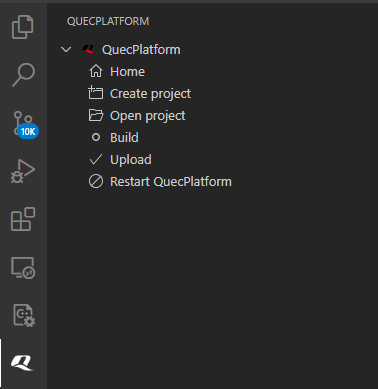
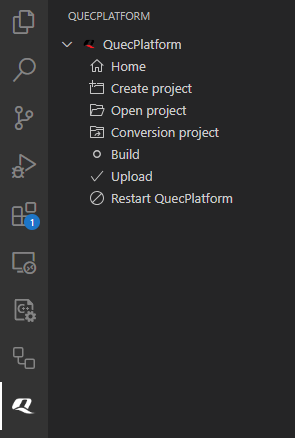
Modify README

diff --git a/vscode-extension/md/README.md b/vscode-extension/md/README.md
@@ -31,6 +31,8 @@ This is the OpenCPU development platform developed by Quectel.🚀
         
     - `Open project`: Open an existing project.
 
+    - `Conversion project`: Convert project not supported by the tool to the project supported by the tool. Due to the need for one-stop compilation, the tool only supports specific projects, but you can use this option to convert unsupported projects to supported projects, but only for the boards supported by the tool.
+
     - `Build`: If you have already created or opened a project, you can click this button to compile, if there is no open project, please follow the steps above to create or open one.
 
     - `Upload`: To burn firmware, please select the correct serial port before burning.
@@ -66,6 +68,8 @@ This is the OpenCPU development platform developed by Quectel.🚀
 ### 0.1.2
 -------------------------
 - Add a quick start document entry to the home page.
+- Added the Project conversion function, which can convert the project not supported by the tool to the project supported by the tool;
+- Fix known issues.
 
 
 ### 0.1.1

diff --git a/vscode-extension/md/README_CN.md b/vscode-extension/md/README_CN.md
@@ -31,6 +31,8 @@ Quectel OpenCPU一站式开发平台。🚀
         
     - `Open project`: 打开一个已存在的工程。
 
+    - `Conversion project`: 将工具不支持的工程转换为工具所支持的工程。由于一站式编译的需要，该工具仅支持特定的项目，但是您可以使用此选项将工具不支持的工程转换为工具所支持的工程，但仅适用于工具支持的开发板。
+
     - `Build`: 如果您已经创建或打开了一个工程，您可以点击此按钮进行编译，如果没有打开的工程，请参照上面的步骤创建或打开一个。
 
     - `Upload`: 烧录固件。烧录前请确保选择了正确的端口。
@@ -65,7 +67,9 @@ Quectel OpenCPU一站式开发平台。🚀
 
 ### 0.1.2
 -------------------------
-- 在Home界面添加快速入门文档入口。
+- 在Home界面添加快速入门文档入口；
+- 新增工程转换功能，支持将工具不支持的工程转换为工具所支持的工程；
+- 修复已知问题。
 
 
 ### 0.1.1
